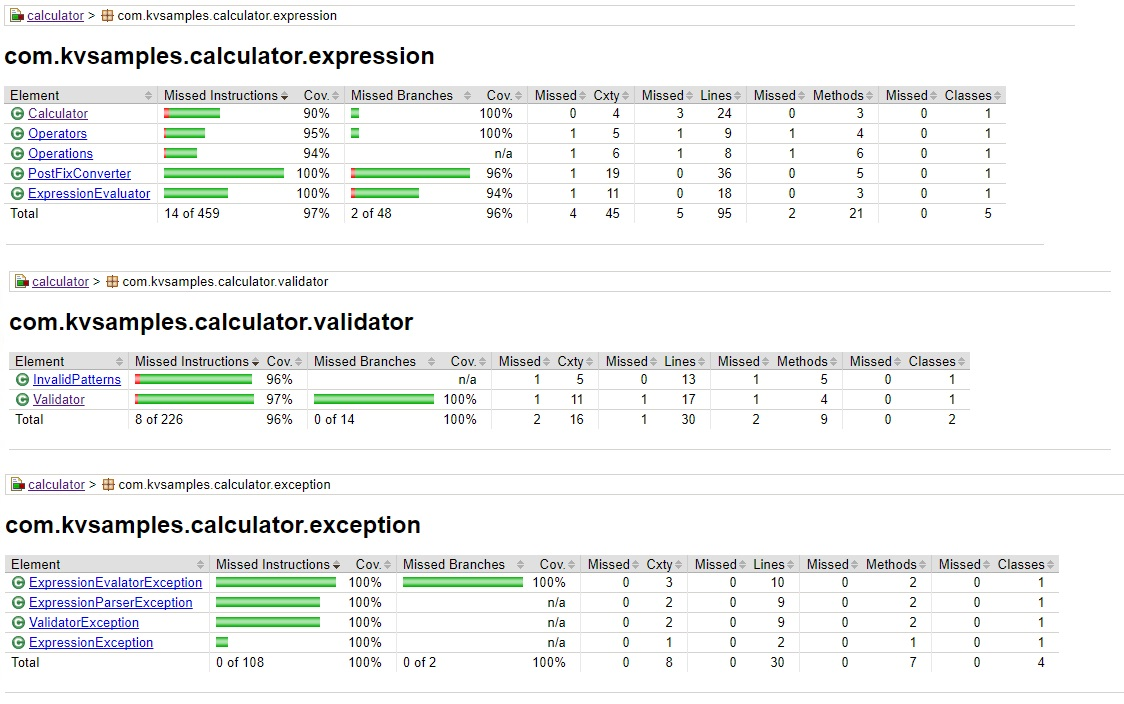
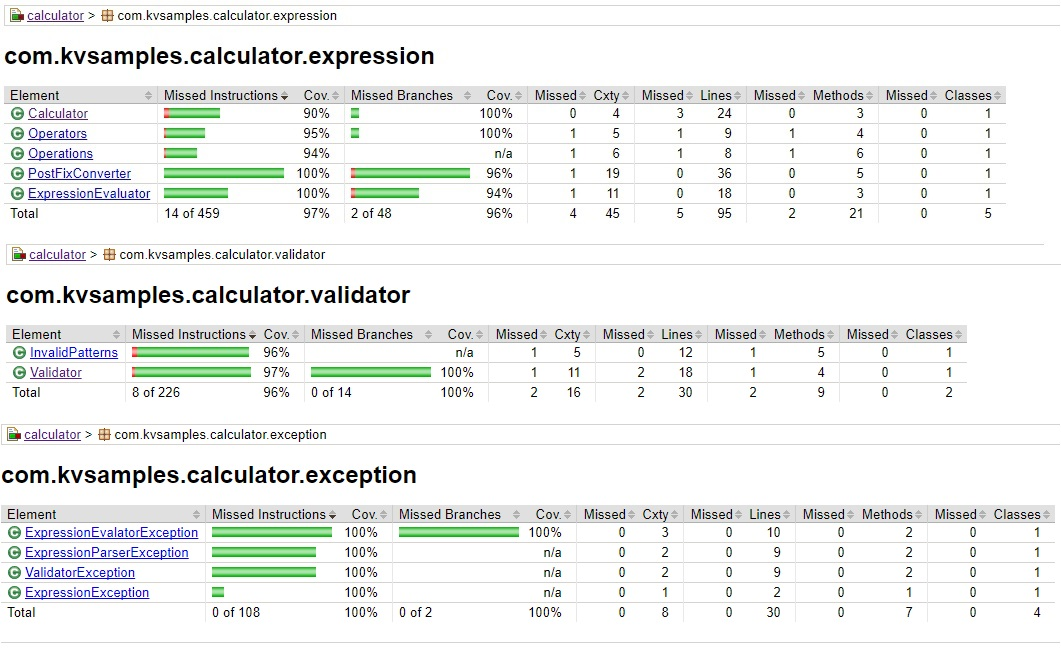
Updated unit tests and sonar report

diff --git a/src/main/java/com/kvsamples/calculator/expression/PostFixConverter.java b/src/main/java/com/kvsamples/calculator/expression/PostFixConverter.java
@@ -1,8 +1,9 @@
 package com.kvsamples.calculator.expression;
 
 import java.util.ArrayList;
+import java.util.Deque;
+import java.util.LinkedList;
 import java.util.List;
-import java.util.Stack;
 
 import com.kvsamples.calculator.exception.ExpressionParserException;
 
@@ -25,40 +26,36 @@ public class PostFixConverter {
 	 */
 	public List<String> convertFromInfix(final String expression) {
 		// Initializing the list used to store the expression in the post fix
-		List<String> expressionInPostFixFormat = new ArrayList<String>();
+		List<String> expressionInPostFixFormat = new ArrayList<>();
 		// Initializing the stack used to store the operators in sequence based
 		// on precedence
-		Stack<Character> operatorStack = new Stack<Character>();
+		Deque<Character> operatorStack = new LinkedList<>();
 		if (expression != null) {
-			for (int position = 0; position < expression.length(); position++) {
-				char currentChar = expression.charAt(position);
-
+			int position = 0;
+			while (position < expression.length()) {
+				char token = expression.charAt(position);
 				// If the character, read remaining digits as whole number & add
 				// it
 				// to output
-				if (Character.isDigit(currentChar)) {
+				if (Character.isDigit(token)) {
 					String numberStr = getNumber(expression, position);
 					position = position + numberStr.length() - 1;
 					expressionInPostFixFormat.add(numberStr);
 				}
-				// Ignore white spaces
-				else if (Character.isWhitespace(currentChar)) {
-					continue;
-				}
-
 				// Push '(' to stack
-				else if (currentChar == LEFT_BRACKET) {
-					operatorStack.push(currentChar);
+				else if (token == LEFT_BRACKET) {
+					operatorStack.push(token);
 				}
 
-				else if (currentChar == RIGHT_BRACKET) {
+				else if (token == RIGHT_BRACKET) {
 					popOperatorsWithInBrackets(expressionInPostFixFormat, operatorStack);
-				} else if (Operators.isAValidOperator(currentChar)) {
-					popOperatorFromStack(expressionInPostFixFormat, operatorStack, currentChar);
-				} else {
+				} else if (Operators.isAValidOperator(token)) {
+					popOperatorFromStack(expressionInPostFixFormat, operatorStack, token);
+				} else if (!Character.isWhitespace(token)) {
 					// Throws expression if the operator is invalid/ non numeric
-					throw new ExpressionParserException(currentChar, position);
+					throw new ExpressionParserException(token, position);
 				}
+				position++;
 			}
 			// Pops all elements from stack and push it to output list
 			while (!operatorStack.isEmpty()) {
@@ -79,7 +76,7 @@ public class PostFixConverter {
 	 *            Operator position with in expression
 	 *
 	 */
-	private void popOperatorsWithInBrackets(List<String> expressionInPostFixFormat, Stack<Character> operatorStack) {
+	private void popOperatorsWithInBrackets(List<String> expressionInPostFixFormat, Deque<Character> operatorStack) {
 		// Pop from the stack and add it output till the next occurrence
 		// of the '('
 		while (!operatorStack.isEmpty() && operatorStack.peek() != LEFT_BRACKET) {
@@ -99,7 +96,7 @@ public class PostFixConverter {
 	 * @param operator
 	 *            Operator for which precedence to be
 	 */
-	private void popOperatorFromStack(List<String> expressionInPostFixFormat, Stack<Character> operatorStack,
+	private void popOperatorFromStack(List<String> expressionInPostFixFormat, Deque<Character> operatorStack,
 			char operator) {
 
 		// Adding the operators which have higher precedence than current

diff --git a/src/test/java/com/kvsamples/calculator/cli/CalculatorMainTest.java b/src/test/java/com/kvsamples/calculator/cli/CalculatorMainTest.java
@@ -1,0 +1,54 @@
+package com.kvsamples.calculator.cli;
+
+import static org.junit.Assert.assertEquals;
+
+import java.io.ByteArrayInputStream;
+import java.io.ByteArrayOutputStream;
+import java.io.IOException;
+import java.io.InputStream;
+import java.io.PrintStream;
+
+import org.junit.Test;
+
+/**
+ * Test class to calculator operations. This also takes care of testing
+ * integration with other components
+ * 
+ * @author Vimalraj Kanagaraj
+ *
+ */
+public class CalculatorMainTest {
+	@Test
+	public void testSimpleOperation() throws IOException {
+		// System.out.println("main");
+		String[] args = null;
+		final InputStream original = System.in;
+		ByteArrayOutputStream outputStream = new ByteArrayOutputStream();
+		System.setOut(new PrintStream(outputStream));
+		final InputStream fips = new ByteArrayInputStream("1+2".getBytes());
+		System.setIn(fips);
+		CalculatorMain.main(args);
+		System.setIn(original);
+		assertEquals(
+				"Please enter the expression to be evalauted then press RETURN key!\r\nTo quit, type 'Exit' then press RETURN key!\r\n3\r\n",
+				outputStream.toString());
+
+	}
+
+	@Test
+	public void testInvalidExpression() throws IOException {
+		// System.out.println("main");
+		String[] args = null;
+		final InputStream original = System.in;
+		ByteArrayOutputStream outputStream = new ByteArrayOutputStream();
+		System.setOut(new PrintStream(outputStream));
+		final InputStream fips = new ByteArrayInputStream("a+b".getBytes());
+		System.setIn(fips);
+		CalculatorMain.main(args);
+		System.setIn(original);
+		assertEquals(
+				"Please enter the expression to be evalauted then press RETURN key!\r\nTo quit, type 'Exit' then press RETURN key!\r\nNot a valid expression\r\n",
+				outputStream.toString());
+
+	}
+}

diff --git a/src/main/java/com/kvsamples/calculator/expression/Operations.java b/src/main/java/com/kvsamples/calculator/expression/Operations.java
@@ -15,14 +15,18 @@ public class Operations {
 	private static final String MULTIPLICATION = "*";
 	private static final String SUBSTRACTION = "-";
 	private static final String ADDTION = "+";
-	public static Map<String, DoubleBinaryOperator> operations = new HashMap<String, DoubleBinaryOperator>();
+	protected static Map<String, DoubleBinaryOperator> allowedOperatios = new HashMap<>();
 	// Build the operations map with lambda expressions for performing
 	// arithmetic operations.
 	static {
-		operations.put(ADDTION, Double::sum);
-		operations.put(SUBSTRACTION, (firstOperand, secondOperand) -> firstOperand - secondOperand);
-		operations.put(MULTIPLICATION, (firstOperand, secondOperand) -> firstOperand * secondOperand);
-		operations.put(DIVISON, (firstOperand, secondOperand) -> firstOperand / secondOperand);
+		allowedOperatios.put(ADDTION, Double::sum);
+		allowedOperatios.put(SUBSTRACTION, (firstOperand, secondOperand) -> firstOperand - secondOperand);
+		allowedOperatios.put(MULTIPLICATION, (firstOperand, secondOperand) -> firstOperand * secondOperand);
+		allowedOperatios.put(DIVISON, (firstOperand, secondOperand) -> firstOperand / secondOperand);
+	}
+
+	private Operations() {
+		// do not instantiate this class
 	}
 
 	/**
@@ -38,6 +42,6 @@ public class Operations {
 	 */
 	public static double performOperation(final String operator, final double firstOperand,
 			final double secondOperand) {
-		return operations.get(operator).applyAsDouble(firstOperand, secondOperand);
+		return allowedOperatios.get(operator).applyAsDouble(firstOperand, secondOperand);
 	}
 }

diff --git a/src/main/java/com/kvsamples/calculator/validator/InvalidPatterns.java b/src/main/java/com/kvsamples/calculator/validator/InvalidPatterns.java
@@ -8,21 +8,22 @@ package com.kvsamples.calculator.validator;
  *
  */
 public enum InvalidPatterns {
-	ONLY_NUMBER_INSIDE_BRACKET_PATTERN("(\\(){1,}(\\d){1,}(\\)){1,}"), 
-	STARTS_WITH_OPERATOR_WITH_IN_BRACKETS("(\\(){1,}(\\+|\\-|\\*|\\/){1,}"),
-	NO_OPERATOR_AFTER_BRACKETS_BEFORE_NUMBER("(\\)){1,}(\\d){1,}"),
-	NO_OPERATOR_BEFORE_BRACKETS_AFTER_NUMBER("(\\d){1,}(\\(){1,}"),
-	OPERATOR_SUCCEED_PATTERN("(\\+|\\-|\\*|\\/){1,}(\\)){1,}"),
-	CONSECUTIVE_OPERATORS_PATTERN("(\\+|\\-|\\*|\\/){2,}"),
-	OPERATOR_AT_THE_END_PATTERN("(\\+|\\-|\\*|\\/){1,}$"),
-	OPERATOR_AT_START_PATTERN("^(\\+|\\-|\\*|\\/){1,}");
-	
+	ONLY_NUMBER_INSIDE_BRACKET_PATTERN("(\\(){1,}(\\d){1,}(\\)){1,}"), STARTS_WITH_OPERATOR_WITH_IN_BRACKETS(
+			"(\\(){1,}(\\+|\\-|\\*|\\/){1,}"), NO_OPERATOR_AFTER_BRACKETS_BEFORE_NUMBER(
+					"(\\)){1,}(\\d){1,}"), NO_OPERATOR_BEFORE_BRACKETS_AFTER_NUMBER(
+							"(\\d){1,}(\\(){1,}"), OPERATOR_SUCCEED_PATTERN(
+									"(\\+|\\-|\\*|\\/){1,}(\\)){1,}"), CONSECUTIVE_OPERATORS_PATTERN(
+											"(\\+|\\-|\\*|\\/){2,}"), OPERATOR_AT_THE_END_PATTERN(
+													"(\\+|\\-|\\*|\\/){1,}$"), OPERATOR_AT_START_PATTERN(
+															"^(\\+|\\-|\\*|\\/){1,}");
+
 	private String value;
-	 
+
 	InvalidPatterns(String value) {
-        this.value = value;
-    } 
-	public String getValue(){
+		this.value = value;
+	}
+
+	public String getValue() {
 		return this.value;
 	}
 }

diff --git a/src/main/java/com/kvsamples/calculator/exception/ExpressionEvalatorException.java b/src/main/java/com/kvsamples/calculator/exception/ExpressionEvalatorException.java
@@ -1,6 +1,6 @@
 package com.kvsamples.calculator.exception;
 
-import java.util.Stack;
+import java.util.Deque;
 
 /**
  * Exception which will be thrown while evaluating the expression
@@ -19,7 +19,7 @@ public class ExpressionEvalatorException extends ExpressionException {
 	 * @param operator
 	 *            operator to be applied on the values
 	 */
-	public ExpressionEvalatorException(Stack<Double> stack, String operator) {
+	public ExpressionEvalatorException(Deque<Double> stack, String operator) {
 		super(buildMessage(stack, operator));
 	}
 
@@ -32,7 +32,7 @@ public class ExpressionEvalatorException extends ExpressionException {
 	 *            operator to be applied on the values
 	 * @return exception message
 	 */
-	private static String buildMessage(Stack<Double> stack, String operator) {
+	private static String buildMessage(Deque<Double> stack, String operator) {
 		StringBuilder builder = new StringBuilder();
 		builder.append("Unable to perform operation for operator'");
 		builder.append(operator);
@@ -40,6 +40,7 @@ public class ExpressionEvalatorException extends ExpressionException {
 		while (!stack.isEmpty()) {
 			builder.append(stack.pop());
 		}
+
 		builder.append("'");
 		return builder.toString();
 	}

diff --git a/src/main/java/com/kvsamples/calculator/expression/ExpressionEvaluator.java b/src/main/java/com/kvsamples/calculator/expression/ExpressionEvaluator.java
@@ -1,7 +1,8 @@
 package com.kvsamples.calculator.expression;
 
+import java.util.Deque;
+import java.util.LinkedList;
 import java.util.List;
-import java.util.Stack;
 
 import com.kvsamples.calculator.constants.CalculatorConstants;
 import com.kvsamples.calculator.exception.ExpressionEvalatorException;
@@ -24,8 +25,7 @@ public class ExpressionEvaluator {
 	 */
 	public double evaluatePostfix(final List<String> postFixNotation) {
 		// create a stack that holds values
-
-		Stack<Double> valueStack = new Stack<Double>();
+		Deque<Double> valueStack = new LinkedList<>();
 		if (postFixNotation == null || postFixNotation.isEmpty()) {
 			valueStack.push(0.0);
 		} else {
@@ -37,7 +37,7 @@ public class ExpressionEvaluator {
 				// If it is not number and value stack has more than a value
 				// Take the last two values and perform the operations
 				else if (valueStack.size() > 1) {
-					if (Operations.operations.containsKey(data)) {
+					if (Operations.allowedOperatios.containsKey(data)) {
 						// Latest becomes second operand
 						double secondOperand = valueStack.pop();
 						double firstOperand = valueStack.pop();

diff --git a/src/main/java/com/kvsamples/calculator/cli/CalculatorMain.java b/src/main/java/com/kvsamples/calculator/cli/CalculatorMain.java
@@ -14,7 +14,6 @@ import com.kvsamples.calculator.expression.Calculator;
  *
  */
 public class CalculatorMain {
-
 	/**
 	 * The main method is providing command line interface for calculator.
 	 * 
@@ -23,8 +22,10 @@ public class CalculatorMain {
 	 */
 	public static void main(String[] args) {
 		Scanner scanner = new Scanner(System.in);
+		// Start squid:S106: ignore System.out as it is a command line interface
 		System.out.println("Please enter the expression to be evalauted then press RETURN key!");
 		System.out.println("To quit, type 'Exit' then press RETURN key!");
+		// End squid:S106: ignore System.out
 
 		Calculator calculator = new Calculator();
 		while (scanner.hasNext()) {
@@ -35,7 +36,10 @@ public class CalculatorMain {
 
 			}
 			String result = calculator.evaluateExpression(expression);
+			// Start squid:S106: ignore System.out as it is a command line
+			// interface
 			System.out.println(result);
+			// End squid:S106: ignore System.out
 		}
 
 	}

diff --git a/src/main/java/com/kvsamples/calculator/validator/Validator.java b/src/main/java/com/kvsamples/calculator/validator/Validator.java
@@ -11,6 +11,9 @@ import com.kvsamples.calculator.exception.ValidatorException;
  *
  */
 public class Validator {
+	private Validator() {
+		// do not instantiate this class
+	}
 
 	/**
 	 * This method is used to validate the expression in the appropriate format
@@ -23,7 +26,6 @@ public class Validator {
 		if (expression == null || expression.trim().equals("")) {
 			throw new ValidatorException("Expression is null or empty", expression);
 		}
-		//  Check for ( & ) is equal.
 		if (expression.chars().filter(ch -> ch == '(').count() != expression.chars().filter(ch -> ch == ')').count()) {
 			throw new ValidatorException(
 					"Count of left brackets & Count of right brackets do not match in the expression", expression);

diff --git a/src/test/java/com/kvsamples/calculator/expression/CalculatorTest.java b/src/test/java/com/kvsamples/calculator/expression/CalculatorTest.java
@@ -76,10 +76,16 @@ public class CalculatorTest {
 		assertEquals("6", calculator.evaluateExpression("(10+4)/(2+5)*3"));
 	}
 
+	
 	@Test
 	public void testExpressionWithDecimalOutput() {
 		assertEquals("4.666666666666667", calculator.evaluateExpression("(10+4)/(2+7)*3"));
 	}
+	@Test
+	public void testExpressionWithLengthyExpression() {
+		assertEquals("-126403.66052049617", calculator.evaluateExpression("1052+1743-5605*4695/551+5830-4634*5045/4020+5021-7943*2580/330+1346-6831*1419/2874+4984-7092*9652/5629+5902-4387*9388/6009+6899-7053*3694/5399+9571-7805*9811/1667+4182-3867*1259/3218+6901-6406*9550/9147+8604-7582*6431/7063+8226-622*1465/595+8795"));
+	}
+	
 
 	@Test
 	public void testBoundaryConditionForInput() {

diff --git a/src/main/java/com/kvsamples/calculator/expression/Operators.java b/src/main/java/com/kvsamples/calculator/expression/Operators.java
@@ -8,13 +8,17 @@ public class Operators {
 	private static final char MULTIPLICATION = '*';
 	private static final char SUBSTRACTION = '-';
 	private static final char ADDITION = '+';
-	private static Map<Character, Integer> operatorPrecedenceMap = new HashMap<Character, Integer>();
+	private static Map<Character, Integer> operatorPrecedenceMap = new HashMap<>();
 	// Builds the map that has operator precedence mapping
 	static {
 		operatorPrecedenceMap.put(ADDITION, 1);
 		operatorPrecedenceMap.put(SUBSTRACTION, 1);
 		operatorPrecedenceMap.put(MULTIPLICATION, 2);
 		operatorPrecedenceMap.put(DIVISION, 2);
+	}
+
+	private Operators() {
+		// do not instantiate this class
 	}
 
 	/**
